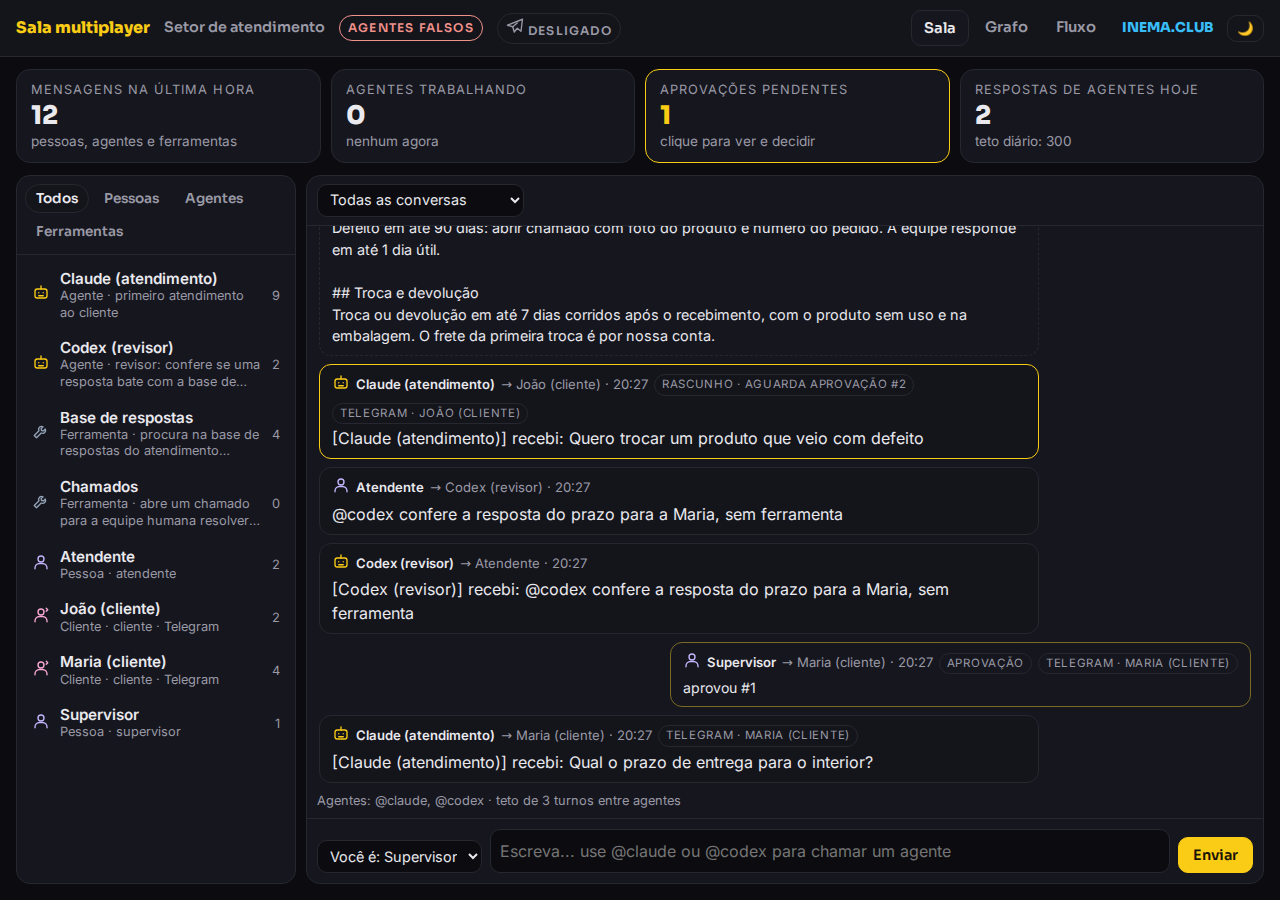
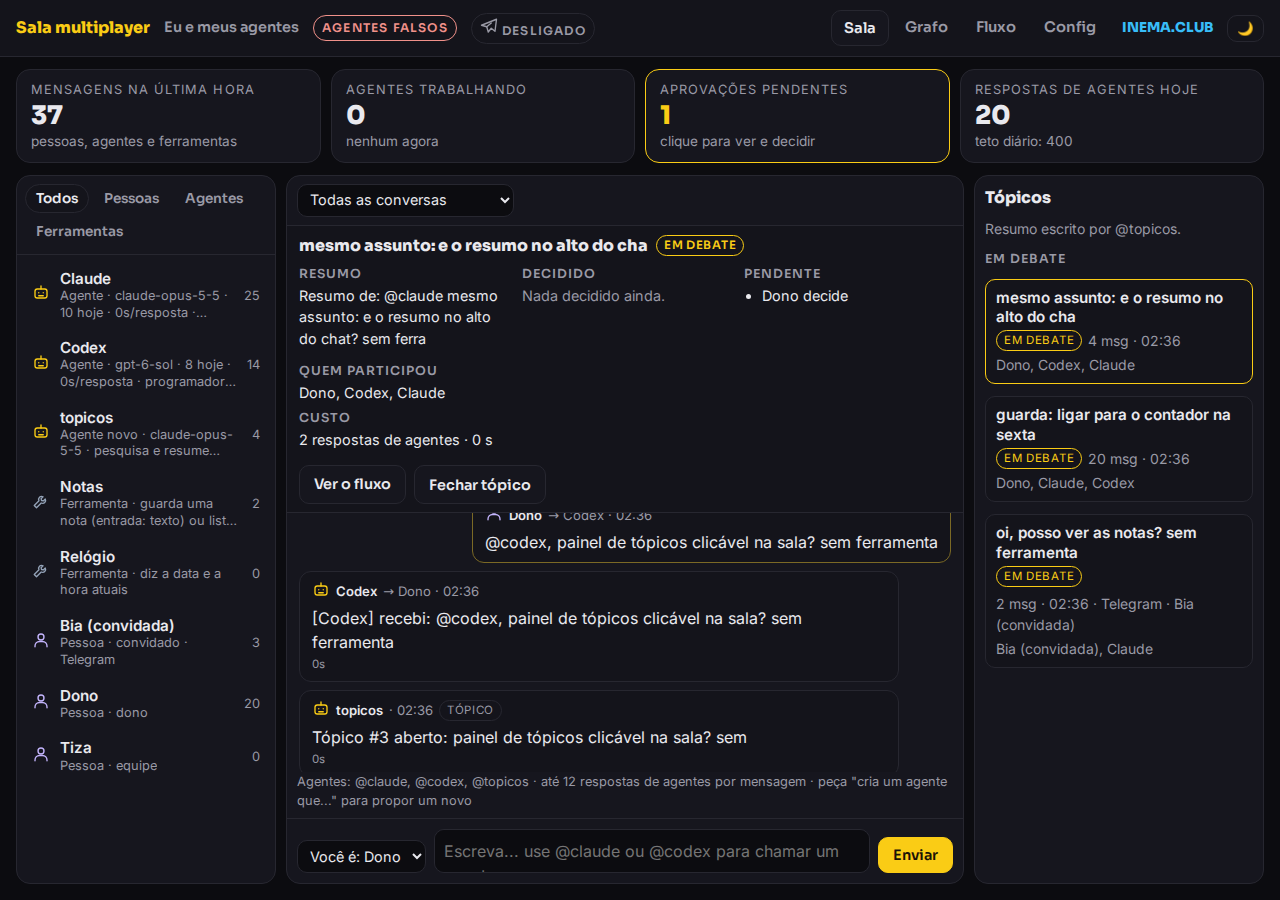
v0.7.0: tópicos — coluna à direita do chat (em debate no alto), resumo no alto ao clicar (decidido, pendente, quem, custo, ver o fluxo), abas no celular; @topicos resume e escolhe atualizar ou abrir, e sem ele a sala agrupa sozinha; READMEs PT/EN/ES em dia

diff --git a/public/sala.html b/public/sala.html
@@ -16,6 +16,10 @@
 </section>
 <section class="aprov" id="aprov"><h3>Esperando aprovação humana</h3><div id="aprov-lista"></div></section>
 <main class="sala">
+  <div class="abas-movel" role="group" aria-label="ver">
+    <button class="tab on" data-aba="conversa">Conversa</button>
+    <button class="tab" data-aba="topicos">Tópicos <span id="n-top"></span></button>
+  </div>
   <aside class="lado">
     <div class="tabs" id="tabs">
       <button class="tab on" data-t="todos">Todos</button>
@@ -30,6 +34,7 @@
       <select id="conversa" aria-label="conversa"></select>
       <span class="filtro" id="filtro"></span>
     </div>
+    <div class="resumo-top" id="resumo" hidden></div>
     <div class="msgs" id="msgs"></div>
     <div class="dica" id="dica"></div>
     <form class="comp" id="comp">
@@ -38,11 +43,14 @@
       <button class="btn pri" type="submit">Enviar</button>
     </form>
   </section>
+  <aside class="topicos" id="topicos" aria-label="tópicos"></aside>
 </main>
 <script type="module">
 import { S, iniciar, nav, icone, esc, hora, part, classe, nomeConversa, postar, ROTULO } from '/comum.js';
+import { rodadas, resolucao } from '/rodadas.js';
 
 let aba = 'todos', sel = new URLSearchParams(location.search).get('p'), conversa = 'todas';
+let selTop = Number(new URLSearchParams(location.search).get('t')) || null;
 const $ = (id) => document.getElementById(id);
 let eu = (() => { try { return localStorage.getItem('sala-eu'); } catch { return null; } })();
 
@@ -55,6 +63,8 @@ $('eu').onchange = (e) => { eu = e.target.value; try { localStorage.setItem('sal
 document.querySelectorAll('.tab').forEach((b) => b.onclick = () => { aba = b.dataset.t; document.querySelectorAll('.tab').forEach((x) => x.classList.toggle('on', x === b)); render(); });
 $('conversa').onchange = (e) => { conversa = e.target.value; render(); };
 $('k-aprov-box').onclick = () => $('aprov').classList.toggle('aberta');
+const verAba = (a) => { document.body.classList.toggle('aba-topicos', a === 'topicos'); document.querySelectorAll('.abas-movel .tab').forEach((b) => b.classList.toggle('on', b.dataset.aba === a)); };
+document.querySelectorAll('.abas-movel .tab').forEach((b) => b.onclick = () => verAba(b.dataset.aba));
 $('texto').addEventListener('keydown', (e) => { if (e.key === 'Enter' && !e.shiftKey) { e.preventDefault(); $('comp').requestSubmit(); } });
 $('comp').onsubmit = async (e) => {
   e.preventDefault();
@@ -162,10 +172,12 @@ function render() {
   // mensagens
   const box = $('msgs');
   const noFim = box.scrollHeight - box.scrollTop - box.clientHeight < 80;
-  const evs = e.eventos.filter((x) => (conversa === 'todas' || x.conversa === conversa) && (!sel || x.de === sel || x.para === sel)).slice(-250);
+  const top = selTop && e.topicos.find((t) => t.id === selTop);
+  const rodTop = top ? new Set(top.rodadas) : null;
+  const evs = e.eventos.filter((x) => (conversa === 'todas' || x.conversa === conversa) && (!sel || x.de === sel || x.para === sel) && (!rodTop || rodTop.has(x.rodada))).slice(-250);
   box.innerHTML = evs.map((x) => {
     const de = part(x.de), para = part(x.para), c = classe(de);
-    const selo = { ferramenta: 'usa ferramenta', resultado: 'resultado', rascunho: `rascunho · aguarda aprovação #${x.meta?.aprovacao ?? ''}`, proposta: `proposta de agente · aprovação #${x.meta?.aprovacao ?? ''}`, aprovacao: 'aprovação', sistema: 'aviso', pedido: `pedido de entrada · #${x.meta?.aprovacao ?? ''}` }[x.tipo];
+    const selo = { ferramenta: 'usa ferramenta', resultado: 'resultado', rascunho: `rascunho · aguarda aprovação #${x.meta?.aprovacao ?? ''}`, proposta: `proposta de agente · aprovação #${x.meta?.aprovacao ?? ''}`, aprovacao: 'aprovação', sistema: 'aviso', topico: 'tópico', pedido: `pedido de entrada · #${x.meta?.aprovacao ?? ''}` }[x.tipo];
     const eco = x.meta?.eco;
     return `<div class="m ${x.tipo} ${x.de === eu ? 'meu' : ''} ${eco ? 'eco' : ''}">
       <div class="c"><span class="t-${c}">${icone(c)}</span><b>${esc(de.nome)}</b>${x.para && x.para !== 'sala' ? ` → ${esc(para.nome)}` : ''} · ${hora(x.hora)}
@@ -173,6 +185,74 @@ function render() {
       <div class="x">${esc(x.texto)}</div>${x.meta?.ms && x.tipo !== 'rascunho' ? `<div class="tempo">${Math.round(x.meta.ms / 100) / 10}s</div>` : ''}</div>`;
   }).join('') || '<div class="pa">Sem mensagens ainda. Escreva abaixo ou mande algo para o bot no Telegram.</div>';
   if (noFim) box.scrollTop = box.scrollHeight;
+  topicos();
+}
+
+// ---------- Tópicos: lista à direita e resumo no alto do chat ----------
+const ESTADO_TXT = { 'em debate': 'em debate', decidido: 'decidido', parado: 'parado' };
+function estadoDe(t, rs) {
+  if (t.rodadas.some((id) => rs.get(String(id)) && resolucao(rs.get(String(id)), S.estado).pendentes.length)) return 'em debate';
+  if (t.estado === 'em debate' && Date.now() - Date.parse(t.atualizado) > 2 * 3600e3) return 'parado';
+  return t.estado;
+}
+function somar(t, rs) {
+  const out = { respostas: 0, ms: 0, ecos: 0, decidido: [], pendentes: [], gente: new Set(), msgs: 0 };
+  for (const id of t.rodadas) {
+    const r = rs.get(String(id));
+    if (!r) continue;
+    const x = resolucao(r, S.estado);
+    out.respostas += x.respostas; out.ms += x.ms; out.ecos += x.ecos;
+    out.decidido.push(...x.decidido); out.pendentes.push(...x.pendentes);
+    for (const ev of r.eventos) {
+      if (['pessoa', 'agente'].includes(part(ev.de).tipo) && ev.tipo !== 'topico') out.gente.add(ev.de);
+      if (ev.tipo === 'mensagem' || ev.tipo === 'resposta') out.msgs++;
+    }
+  }
+  return out;
+}
+function itemTopico(t, rs) {
+  const est = estadoDe(t, rs), so = somar(t, rs);
+  return `<button class="top ${selTop === t.id ? 'on' : ''}" data-top="${t.id}">
+    <span class="tt">${esc(t.titulo)}</span>
+    <span class="ts"><span class="tg ${est === 'em debate' ? 'destaque' : est === 'decidido' ? 'ok' : ''}">${ESTADO_TXT[est] || est}</span>
+      ${so.msgs} msg · ${hora(t.atualizado)}${t.conversa !== 'painel' ? ` · ${esc(nomeConversa(t.conversa))}` : ''}</span>
+    <span class="tq">${[...so.gente].map((id) => esc(part(id).nome)).join(', ')}</span>
+  </button>`;
+}
+function topicos() {
+  const e = S.estado, rs = new Map(rodadas(e.eventos).map((r) => [r.chave, r]));
+  const lista = (e.topicos || []).map((t) => ({ t, est: estadoDe(t, rs) }));
+  const ativos = lista.filter((x) => x.est === 'em debate'), resto = lista.filter((x) => x.est !== 'em debate');
+  $('n-top').textContent = ativos.length ? `(${ativos.length})` : '';
+  const quem = e.agente_topicos ? `Resumo escrito por @${esc(e.agente_topicos)}.` : 'A sala agrupa as mensagens; o resumo escrito aparece quando o agente @topicos estiver aprovado.';
+  $('topicos').innerHTML = `<h3>Tópicos</h3><p class="nota">${quem}</p>
+    ${ativos.length ? `<div class="grupo"><h4>Em debate</h4>${ativos.map((x) => itemTopico(x.t, rs)).join('')}</div>` : '<p class="nota">Nenhum tópico em debate agora.</p>'}
+    ${resto.length ? `<details class="grupo" ${resto.some((x) => x.t.id === selTop) ? 'open' : ''}><summary>Decididos e parados (${resto.length})</summary>${resto.map((x) => itemTopico(x.t, rs)).join('')}</details>` : ''}`;
+  $('topicos').querySelectorAll('[data-top]').forEach((b) => b.onclick = () => {
+    const id = Number(b.dataset.top);
+    selTop = selTop === id ? null : id;
+    verAba('conversa');
+    render();
+  });
+  // Cartão de resumo do tópico aberto.
+  const t = selTop && (e.topicos || []).find((x) => x.id === selTop);
+  const box = $('resumo');
+  box.hidden = !t;
+  if (!t) return;
+  const est = estadoDe(t, rs), so = somar(t, rs);
+  const lista2 = (itens, vazio) => itens.length ? `<ul>${itens.map((i) => `<li>${esc(i)}</li>`).join('')}</ul>` : `<p class="mut">${vazio}</p>`;
+  const resumo = t.resumo || (e.agente_topicos ? 'Agrupado pela sala (o @topicos não resumiu esta parte).' : 'Sem resumo escrito: aprove o agente @topicos para ter resumo, decisões e pendências escritas.');
+  box.innerHTML = `<details open><summary><b>${esc(t.titulo)}</b> <span class="tg ${est === 'em debate' ? 'destaque' : est === 'decidido' ? 'ok' : ''}">${ESTADO_TXT[est] || est}</span></summary>
+    <div class="rt-grade">
+      <div><h4>Resumo</h4><p>${esc(resumo)}</p></div>
+      <div><h4>Decidido</h4>${lista2([...t.decidido, ...so.decidido], 'Nada decidido ainda.')}</div>
+      <div><h4>Pendente</h4>${lista2([...t.pendente, ...so.pendentes], 'Nada esperando.')}</div>
+      <div><h4>Quem participou</h4><p>${[...so.gente].map((id) => esc(part(id).nome)).join(', ') || '—'}</p>
+        <h4>Custo</h4><p>${so.respostas} resposta${so.respostas === 1 ? '' : 's'} de agentes${so.ecos ? ` (${so.ecos} só confirmando)` : ''} · ${String(Math.round(so.ms / 100) / 10).replace('.', ',')} s</p></div>
+    </div>
+    <div class="acoes"><a class="btn" href="/fluxo?v=visual&rodadas=${t.rodadas.join(',')}">Ver o fluxo</a><button class="btn" type="button" id="fecha-top">Fechar tópico</button></div>
+  </details>`;
+  $('fecha-top').onclick = () => { selTop = null; render(); };
 }
 function alertaInline(box, msg) { const d = document.createElement('div'); d.className = 'q'; d.style.color = 'var(--bad)'; d.textContent = msg; box.append(d); }
 render();

diff --git a/public/estilo.css b/public/estilo.css
@@ -55,7 +55,7 @@ svg.ic{width:18px;height:18px;flex:none;stroke:currentColor;fill:none;stroke-wid
 .btn:disabled{opacity:.5;cursor:default}
 
 /* sala: esquerda participantes, direita chat */
-.sala{flex:1;display:grid;grid-template-columns:280px 1fr;gap:10px;padding:0 16px 16px;min-height:0}
+.sala{flex:1;display:grid;grid-template-columns:260px minmax(0,1fr) 290px;gap:10px;padding:0 16px 16px;min-height:0}
 .lado{background:var(--card);border:1px solid var(--line);border-radius:14px;display:flex;flex-direction:column;min-height:0}
 .tabs{display:flex;gap:4px;padding:8px;border-bottom:1px solid var(--line);flex-wrap:wrap}
 .tab{border:1px solid transparent;background:none;color:var(--mut);border-radius:999px;padding:5px 10px;cursor:pointer;font-size:.85rem}
@@ -220,4 +220,35 @@ body:has(.cfg){height:auto;overflow:auto}
 @media (max-width:860px){
   .rd-corpo{grid-template-columns:1fr}
   .visual{overflow:visible}
+}
+/* v0.7: tópicos à direita do chat, resumo no alto, abas no celular */
+.abas-movel{display:none}
+.topicos{background:var(--card);border:1px solid var(--line);border-radius:14px;padding:10px;overflow:auto;min-height:0;display:flex;flex-direction:column;gap:8px}
+.topicos h3{margin:0;font-size:1rem}
+.topicos .nota{margin:0;color:var(--mut);font-size:.875rem}
+.topicos .grupo{display:grid;gap:6px}
+.topicos h4,.topicos summary{font:600 .78rem Sora,sans-serif;text-transform:uppercase;letter-spacing:.08em;color:var(--mut);margin:4px 0 0;cursor:default}
+.topicos summary{cursor:pointer;padding:4px 0}
+.top{all:unset;box-sizing:border-box;display:grid;gap:3px;width:100%;padding:8px 10px;border:1px solid var(--line);border-radius:10px;background:var(--bg2);cursor:pointer;margin-top:6px}
+.top:hover{border-color:color-mix(in srgb,var(--amb) 40%,var(--line))}
+.top.on{border-color:var(--amb)}
+.top:focus-visible{outline:2px solid var(--amb);outline-offset:1px}
+.top .tt{font-weight:600;font-size:.95rem;line-height:1.3;color:var(--txt)}
+.top .ts{display:flex;gap:6px;align-items:center;flex-wrap:wrap;color:var(--mut);font-size:.875rem}
+.top .tq{color:var(--mut);font-size:.875rem;overflow:hidden;text-overflow:ellipsis;white-space:nowrap}
+.resumo-top{border-bottom:1px solid var(--line);padding:8px 12px;background:var(--bg2);max-height:45vh;overflow:auto}
+.resumo-top summary{cursor:pointer;display:flex;gap:8px;align-items:center;flex-wrap:wrap;font-family:Sora,Inter,sans-serif}
+.resumo-top .rt-grade{display:grid;grid-template-columns:repeat(auto-fit,minmax(200px,1fr));gap:8px 16px;margin-top:8px;font-size:.9rem}
+.resumo-top h4{font:600 .78rem Sora,sans-serif;text-transform:uppercase;letter-spacing:.08em;color:var(--mut);margin:0 0 3px}
+.resumo-top p{margin:0 0 6px;word-break:break-word}
+.resumo-top ul{margin:0 0 6px;padding-left:18px;display:grid;gap:2px}
+.resumo-top .acoes{display:flex;gap:8px;flex-wrap:wrap;margin-top:8px}
+.resumo-top a.btn{text-decoration:none}
+@media (max-width:1100px){.sala{grid-template-columns:220px minmax(0,1fr) 250px}}
+@media (max-width:860px){
+  .sala{grid-template-columns:1fr}
+  .abas-movel{display:flex;gap:6px}
+  .topicos{display:none;max-height:none}
+  body.aba-topicos .topicos{display:flex}
+  body.aba-topicos .chat,body.aba-topicos .lado{display:none}
 }

diff --git a/public/fluxo.html b/public/fluxo.html
@@ -94,6 +94,7 @@ function tudo() {
 const MARCA = {
   proposta: (e) => `proposta #${e.meta?.aprovacao ?? ''}`, rascunho: (e) => `rascunho #${e.meta?.aprovacao ?? ''}`,
   ferramenta: () => 'usa ferramenta', resultado: () => 'resultado', pedido: (e) => `pedido #${e.meta?.aprovacao ?? ''}`,
+  topico: (e) => `tópico #${e.meta?.topico ?? ''}`,
 };
 function marca(e) {
   if (e.tipo === 'sistema') return /^Teto/.test(e.texto) ? ['teto', 'ruim'] : /falhou/.test(e.texto) ? ['falhou', 'ruim'] : ['aviso', ''];

diff --git a/public/comum.js b/public/comum.js
@@ -79,6 +79,9 @@ export async function iniciar(aoMudar) {
   on('ativos', (d) => { S.estado.ativos = d; });
   on('config', (d) => { S.estado.config = d; S.estado.perfil.teto_turnos = d.teto_turnos; S.estado.perfil.teto_diario = d.teto_diario; });
   on('stats', (d) => { S.estado.stats = d; });
+  on('topico', (d) => {
+    S.estado.topicos = [d, ...(S.estado.topicos || []).filter((t) => t.id !== d.id)];
+  });
   return S.estado;
 }
 

diff --git a/README.es.md b/README.es.md
@@ -16,13 +16,14 @@ Tiene dos modos listos: **pessoa** (personal: tú y tus agentes) y **atendimento
 
 Guía completa (landing + paso a paso): **https://inematds.github.io/sala-multiplayer/guia/es/**
 
-## Las tres pantallas
+## Las pantallas
 
 | Pantalla | Qué muestra |
 |---|---|
-| **Sala** (`/`) | Arriba: mensajes de la última hora, agentes trabajando, aprobaciones pendientes y respuestas del día. A la izquierda: participantes (Todos, Pessoas, Agentes, Ferramentas); haz clic para filtrar. A la derecha: el chat, con selector de conversación. |
+| **Sala** (`/`) | Arriba: mensajes de la última hora, agentes trabajando, aprobaciones pendientes y respuestas del día. A la izquierda: participantes (Todos, Pessoas, Agentes, Ferramentas); haz clic para filtrar. En el medio: el chat, con selector de conversación. A la derecha: **Temas** (en debate arriba; decididos y parados plegados). Al hacer clic en un tema, el chat se filtra y arriba se abre el **resumen**: resumen, decidido, pendiente, quién participó, costo y "Ver el flujo". En el celular, Conversación y Temas pasan a ser pestañas. |
 | **Grafo** (`/grafo`) | Quién conversa con quién. La línea se engrosa con el volumen y una bolita corre por ella con cada mensaje. |
-| **Flujo** (`/fluxo`) | Todo lo que entra y sale, desplazándose en el orden en que ocurre. |
+| **Flujo** (`/fluxo`) | Botón **Texto \| Visual**. Texto: todo lo que entra y sale, en el orden en que ocurre. Visual: una ronda por mensaje de una persona, en diagrama de secuencia (una columna por participante, una flecha por mensaje, marcas de propuesta, tope, falla y "solo confirma"), con la franja de resolución al lado: pedido, propuestas, decidido, pendiente, topes y costo. |
+| **Config** (`/config`) | Límites de la sala, de cada agente y de los invitados; activar y desactivar invitados. Solo el dueño, con la contraseña. |
 
 ![Sala](docs/sala-1280.png)
 ![Grafo](docs/grafo-1280.png)
@@ -32,7 +33,7 @@ Guía completa (landing + paso a paso): **https://inematds.github.io/sala-multip
 ```bash
 git clone https://github.com/inematds/sala-multiplayer && cd sala-multiplayer
 npm run demo          # demostración con agentes falsos: http://127.0.0.1:4601
-npm test              # 11 pruebas, sin llamar a agentes ni a Telegram
+npm test              # 45 pruebas, sin llamar a agentes ni a Telegram
 ```
 
 Con agentes de verdad:
@@ -49,16 +50,18 @@ npm run atendimento   # área de atención      → http://127.0.0.1:4600
 3. Copia `.env.exemplo` a `.env` y completa `SALA_TELEGRAM_TOKEN` y tu id (`SALA_DONO_TELEGRAM_ID`; averígualo con @userinfobot).
 4. Cada persona del equipo envía `/start` al bot una vez (un bot de Telegram no puede iniciar la conversación; sin eso no puede avisar de las aprobaciones).
 5. Quien no sabe su id manda `ping` al bot: recibe el id de vuelta, y el dueño recibe un aviso con el comando listo (`/entrar <id> <persona>`) para meterla en la sala sin tocar el `.env`.
-6. Ejecuta `npm run pessoa` o `npm run atendimento`. El sello de Telegram en la parte superior del panel queda "ligado" (activo).
+6. **Invitado sin id:** la persona envía `/entrar` al bot (en conversación privada). El dueño recibe "Pedido 7: Ana (@ana) quiere entrar. /aceitar 7 o /recusar 7", y el mismo pedido aparece en las aprobaciones pendientes del panel (aceptar pide la contraseña del dueño). El id queda guardado solo por dentro. El invitado conversa y llama a los agentes, pero no aprueba nada ni cambia la configuración, y tiene su propio tope de respuestas por día (30). Para desactivarlo: `/remover ana` en Telegram o el botón en la pantalla Config; el propio invitado sale con `/sair`. Para volver, envía `/entrar` de nuevo y el dueño aprueba otra vez.
+7. Ejecuta `npm run pessoa` o `npm run atendimento`. El sello de Telegram en la parte superior del panel queda "ligado" (activo).
 
 Es **un solo bot**: los agentes responden por él, con su nombre al frente ("Claude: ..."). Es necesario porque un bot de Telegram no ve los mensajes de otro bot.
 
 ## Cómo funciona
 
-- **Llamar a un agente:** escribe `@claude` o `@codex`. Sin mención, vale la ruta del perfil: en el modo pessoa va a Claude; en atendimento, el mensaje de un cliente va a Claude y la conversación del equipo queda solo entre personas.
+- **Llamar a un agente:** escribe `@claude` o `@codex`. Entre agentes solo vale el `@id` al comienzo de la frase ("@codex, ¿revisas esto?"); nombrar a un agente en medio del texto ("falta aprobar a @critico") no llama a nadie. Una respuesta que solo confirma ("de acuerdo, espero al dueño") no llama a nadie y aparece con el sello "solo confirma". Un agente solo vuelve a llamar a quien le habló si hace una pregunta. Sin mención, vale la ruta del perfil: en el modo pessoa va a Claude; en atendimento, el mensaje de un cliente va a Claude y la conversación del equipo queda solo entre personas.
 - **Herramientas:** el agente la pide con una línea `FERRAMENTA: nome | entrada`; la sala la ejecuta y devuelve el resultado. Ejemplos: `base` (base de respuestas en `perfis/base-atendimento.md`), `chamado`, `notas`, `hora`.
 - **Aprobación:** en atendimento, la respuesta para el cliente queda como borrador. Solo sale cuando alguien del equipo la aprueba en el panel (puede editarla antes) o envía `/aprovar N` por Telegram.
-- **Topes:** hasta 10 turnos seguidos entre agentes (6 en atendimento), un límite de respuestas por día (400 y 300) y, si quieres, un tope por agente. Evitan bucles que gasten la suscripción. Cámbialos en `perfis/<perfil>.json` (`teto_turnos`, `teto_diario`).
+- **Topes:** hasta 10 turnos seguidos entre agentes (6 en atendimento), hasta 12 respuestas de agentes por mensaje sumando todas las ramas (8 en atendimento), un límite de respuestas por día (400 y 300), un tope por invitado y, si quieres, un tope por agente. Evitan bucles que gasten la suscripción. El aviso de tope sale una vez por mensaje. Cámbialos en la pantalla Config.
+- **Ronda:** cada mensaje de una persona abre una ronda; todo lo que provoca guarda su id (`rodada`) y el evento que lo disparó (`pai`).
 - **Modelo, esfuerzo y largo de la respuesta:** cada agente tiene `nivel` (super, topo, executor, menor; el modelo de cada nivel sale de `~/.config/inema/modelos.env`), `esforco` (vacío = el del nivel, o low, medium, high, xhigh) y `linhas_max`. Defínelos en el perfil o, para un agente nuevo, en la misma tarjeta de aprobación.
 - **Seguridad:** el panel solo abre en esta máquina (`127.0.0.1`). El mensaje de otra persona se trata como dato, nunca como orden. En el modo pessoa, el bot ignora a quien no es el dueño. Los agentes corren sin las herramientas propias del CLI, sin MCP y en una carpeta vacía.
 
@@ -68,9 +71,13 @@ Pídelo en la conversación, por ejemplo: "crea un agente que revise mis textos"
 
 Los agentes aprobados quedan en `data/<perfil>/agentes.json` (fuera de git). Para quitar uno, borra su entrada y reinicia la sala. En el panel, cada agente muestra cuántas respuestas dio hoy y su tiempo promedio por respuesta.
 
+## Temas
+
+Después de cada mensaje, la sala coloca la conversación en un tema. Sin el agente organizador, junta los mensajes seguidos de la misma conversación (hasta 15 minutos de intervalo) en un tema sin resumen escrito; las propuestas, aprobaciones y el costo aparecen igual, porque la sala ya los registra. Con el agente **@topicos** aprobado (pide "crea un agente que organice la conversación en temas"; el id tiene que ser `topicos`, o cambia `agente_topicos` en el perfil), él escribe título, resumen, decidido y pendiente, y elige entre actualizar un tema abierto o abrir otro. Cada resumen cuenta como una respuesta en el tope diario. Los temas quedan en la base de la sala (`data/<perfil>/sala.db`).
+
 ## Configuración: solo el dueño la cambia
 
-Los límites (turnos entre agentes, respuestas por día, largo de la respuesta) y el modelo, el esfuerzo y el tope de cada agente están en la pantalla **Config** (`/config`). Cambiarlos exige la **contraseña del dueño** (`SALA_DONO_SENHA` en el `.env`). En Telegram, el dueño usa `/config` para verlos y `/config teto_turnos 20` (o `/config agente.claude.nivel super`) para cambiarlos, reconocido por su id. Quien no es el dueño lo pide en el chat ("sube el tope a 20"): el agente arma una propuesta y solo el dueño la aprueba. Los cambios valen al instante y quedan en `data/<perfil>/config.json`, por encima del perfil. El dueño de cada perfil es el campo `"dono"` del JSON.
+Los límites (turnos entre agentes, respuestas por mensaje, respuestas por día, largo de la respuesta, reglas del invitado: tope diario, si necesita aprobación nueva al volver, si la invitación vence) y el modelo, el esfuerzo y el tope de cada agente están en la pantalla **Config** (`/config`). Cambiarlos exige la **contraseña del dueño** (`SALA_DONO_SENHA` en el `.env`). En Telegram, el dueño usa `/config` para verlos y `/config teto_turnos 20` (o `/config agente.claude.nivel super`) para cambiarlos, reconocido por su id. Quien no es el dueño lo pide en el chat ("sube el tope a 20"): el agente arma una propuesta y solo el dueño la aprueba. Los cambios valen al instante y quedan en `data/<perfil>/config.json`, por encima del perfil. El dueño de cada perfil es el campo `"dono"` del JSON.
 
 ## Perfiles
 
@@ -78,7 +85,7 @@ Los límites (turnos entre agentes, respuestas por día, largo de la respuesta) 
 
 ## Próximos pasos
 
-Mira el [ROADMAP.md](ROADMAP.md) (en portugués). En la v0.2 entran los **consejos** de [7conselho](https://github.com/inematds/7conselho) como participantes de la sala.
+Mira el [ROADMAP.md](ROADMAP.md) (en portugués): herramienta nueva a pedido (con dos aprobaciones) y los **consejos** de [7conselho](https://github.com/inematds/7conselho) como participantes de la sala.
 
 ---
 

diff --git a/README.en.md b/README.en.md
@@ -16,13 +16,14 @@ It has two ready-made modes: **pessoa** (personal: you and your agents) and **at
 
 Full guide (landing + step by step): **https://inematds.github.io/sala-multiplayer/guia/en/**
 
-## The three screens
+## The screens
 
 | Screen | What it shows |
 |---|---|
-| **Room** (`/`) | On top: messages from the last hour, agents working, pending approvals and replies today. On the left: participants (All, People, Agents, Tools); click to filter. On the right: the chat, with a conversation selector. |
+| **Room** (`/`) | On top: messages from the last hour, agents working, pending approvals and replies today. On the left: participants (All, People, Agents, Tools); click to filter. In the middle: the chat, with a conversation selector. On the right: **Topics** (under debate on top; decided and stalled ones folded). Clicking a topic filters the chat and opens the **summary** on top: summary, decided, pending, who took part, cost and "See the flow". On a phone, Conversation and Topics become tabs. |
 | **Graph** (`/grafo`) | Who talks to whom. The line gets thicker with volume and a dot runs along it with each message. |
-| **Flow** (`/fluxo`) | Everything that comes in and goes out, scrolling in the order it happens. |
+| **Flow** (`/fluxo`) | A **Text \| Visual** switch. Text: everything that comes in and goes out, in the order it happens. Visual: one round per message from a person, as a sequence diagram (one column per participant, one arrow per message, marks for proposal, limit, failure and "just confirms"), with the resolution strip beside it: request, proposals, decided, pending, limits hit and cost. |
+| **Config** (`/config`) | Limits for the room, each agent and guests; switch guests on and off. Owner only, with the password. |
 
 ![Room](docs/sala-1280.png)
 ![Graph](docs/grafo-1280.png)
@@ -32,7 +33,7 @@ Full guide (landing + step by step): **https://inematds.github.io/sala-multiplay
 ```bash
 git clone https://github.com/inematds/sala-multiplayer && cd sala-multiplayer
 npm run demo          # demo with fake agents: http://127.0.0.1:4601
-npm test              # 11 tests, no agents or Telegram called
+npm test              # 45 tests, no agents or Telegram called
 ```
 
 With real agents:
@@ -49,16 +50,18 @@ npm run atendimento   # support desk          → http://127.0.0.1:4600
 3. Copy `.env.exemplo` to `.env` and fill in `SALA_TELEGRAM_TOKEN` and your id (`SALA_DONO_TELEGRAM_ID`; find it with @userinfobot).
 4. Each team member sends `/start` to the bot once (a Telegram bot cannot start a conversation; without it, it cannot notify people about approvals).
 5. Anyone who does not know their id sends `ping` to the bot: they get the id back, and the owner gets a notice with the ready command (`/entrar <id> <person>`) to add them to the room without touching `.env`.
-6. Run `npm run pessoa` or `npm run atendimento`. The Telegram badge at the top of the dashboard shows "on".
+6. **Guest without an id:** the person sends `/entrar` to the bot (in a private chat). The owner gets "Request 7: Ana (@ana) wants to join. /aceitar 7 or /recusar 7", and the same request shows up under pending approvals in the panel (accepting asks for the owner password). The id stays inside the room. A guest chats and calls the agents but approves nothing and changes no settings, and has a daily reply cap of their own (30). To switch a guest off: `/remover ana` on Telegram or the button on the Config page; the guest can leave with `/sair`. To come back, they send `/entrar` again and the owner approves again.
+7. Run `npm run pessoa` or `npm run atendimento`. The Telegram badge at the top of the dashboard shows "on".
 
 It is **a single bot**: the agents reply through it, with their name in front ("Claude: ..."). This is needed because a Telegram bot cannot see messages from another bot.
 
 ## How it works
 
-- **Calling an agent:** write `@claude` or `@codex`. Without a mention, the profile's route applies: in pessoa mode it goes to Claude; in atendimento, a customer message goes to Claude and team conversation stays between people.
+- **Calling an agent:** write `@claude` or `@codex`. Between agents only an `@id` at the start of a sentence counts ("@codex, can you check this?"); naming an agent mid-sentence ("the owner still has to approve @critico") calls no one. A reply that only confirms ("agreed, waiting for the owner") calls no one and gets a "just confirms" tag. An agent only calls back the one who spoke to it when it asks a question. Without a mention, the profile's route applies: in pessoa mode it goes to Claude; in atendimento, a customer message goes to Claude and team conversation stays between people.
 - **Tools:** the agent asks with one line `FERRAMENTA: nome | entrada`; the room runs it and returns the result. Examples: `base` (answer base in `perfis/base-atendimento.md`), `chamado` (ticket), `notas` (notes), `hora` (time).
 - **Approval:** in atendimento, the reply to the customer becomes a draft. It only goes out after someone on the team approves it in the dashboard (you can edit it first) or sends `/aprovar N` on Telegram.
-- **Limits:** up to 10 turns in a row between agents (6 in atendimento), a daily reply limit (400 and 300) and, optionally, a cap per agent. They prevent loops that burn through your subscription. Change them in `perfis/<perfil>.json` (`teto_turnos`, `teto_diario`).
+- **Limits:** up to 10 turns in a row between agents (6 in atendimento), up to 12 agent replies per message adding up every branch (8 in atendimento), a daily reply limit (400 and 300), a cap per guest and, optionally, a cap per agent. They prevent loops that burn through your subscription. The limit notice shows once per message. Change them on the Config page.
+- **Round:** each message from a person opens a round; everything it triggers keeps its id (`rodada`) and the event that triggered it (`pai`).
 - **Model, effort and reply length:** each agent has `nivel` (super, topo, executor, menor; each level's model comes from `~/.config/inema/modelos.env`), `esforco` (empty = the level's own, or low, medium, high, xhigh) and `linhas_max`. Set them in the profile or, for a new agent, right on the approval card.
 - **Security:** the dashboard only opens on this machine (`127.0.0.1`). A message from another person is treated as data, never as an order. In pessoa mode, the bot ignores anyone who is not the owner. The agents run without the CLI's own tools, without MCP and in an empty folder.
 
@@ -68,9 +71,13 @@ Ask in the conversation, for example: "create an agent that proofreads my texts"
 
 Approved agents are kept in `data/<perfil>/agentes.json` (outside git). To remove one, delete its entry and restart the room. In the panel, each agent shows how many replies it gave today and its average time per reply.
 
+## Topics
+
+After each message, the room puts the conversation into a topic. Without the organizer agent, it joins consecutive messages of the same conversation (up to 15 minutes apart) into a topic with no written summary; proposals, approvals and cost still show, because the room already records them. With the **@topicos** agent approved (ask "create an agent that organizes the conversation into topics"; its id must be `topicos`, or change `agente_topicos` in the profile), it writes the title, summary, decided and pending items, and picks between updating an open topic or opening a new one. Each summary counts as one reply against the daily limit. Topics live in the room database (`data/<perfil>/sala.db`).
+
 ## Settings: only the owner changes them
 
-The limits (turns between agents, replies per day, reply length) and each agent's model, effort and cap live on the **Config** page (`/config`). Changing them needs the **owner password** (`SALA_DONO_SENHA` in `.env`). On Telegram, the owner uses `/config` to see them and `/config teto_turnos 20` (or `/config agente.claude.nivel super`) to change them, recognized by their Telegram id. Anyone else asks in the chat ("raise the cap to 20"): the agent builds a proposal and only the owner approves it. Changes apply at once and are stored in `data/<perfil>/config.json`, on top of the profile. Each profile's owner is the `"dono"` field in its JSON.
+The limits (turns between agents, replies per message, replies per day, reply length, guest rules: daily cap, whether a returning guest needs a new approval, whether the invite expires) and each agent's model, effort and cap live on the **Config** page (`/config`). Changing them needs the **owner password** (`SALA_DONO_SENHA` in `.env`). On Telegram, the owner uses `/config` to see them and `/config teto_turnos 20` (or `/config agente.claude.nivel super`) to change them, recognized by their Telegram id. Anyone else asks in the chat ("raise the cap to 20"): the agent builds a proposal and only the owner approves it. Changes apply at once and are stored in `data/<perfil>/config.json`, on top of the profile. Each profile's owner is the `"dono"` field in its JSON.
 
 ## Profiles
 
@@ -78,7 +85,7 @@ The limits (turns between agents, replies per day, reply length) and each agent'
 
 ## Next steps
 
-See [ROADMAP.md](ROADMAP.md) (in Portuguese). In v0.2 the **councils** from [7conselho](https://github.com/inematds/7conselho) join as participants in the room.
+See [ROADMAP.md](ROADMAP.md) (in Portuguese): a new tool on request (with two approvals) and the **councils** from [7conselho](https://github.com/inematds/7conselho) as participants in the room.
 
 ---
 

diff --git a/README.md b/README.md
@@ -20,7 +20,7 @@ Guia completo (landing + passo a passo): **https://inematds.github.io/sala-multi
 
 | Tela | O que mostra |
 |---|---|
-| **Sala** (`/`) | No topo: mensagens da última hora, agentes trabalhando, aprovações pendentes e respostas do dia. À esquerda: participantes (Todos, Pessoas, Agentes, Ferramentas); clique para filtrar. À direita: o chat, com seletor de conversa. |
+| **Sala** (`/`) | No topo: mensagens da última hora, agentes trabalhando, aprovações pendentes e respostas do dia. À esquerda: participantes (Todos, Pessoas, Agentes, Ferramentas); clique para filtrar. No meio: o chat, com seletor de conversa. À direita: **Tópicos** (em debate no alto; decididos e parados recolhidos). Clicar num tópico filtra o chat e abre o **resumo** no alto: resumo, decidido, pendente, quem participou, custo e "Ver o fluxo". No celular, Conversa e Tópicos viram abas. |
 | **Grafo** (`/grafo`) | Quem conversa com quem. A linha engrossa com o volume e uma bolinha corre por ela a cada mensagem. |
 | **Fluxo** (`/fluxo`) | Botão **Texto \| Visual**. Texto: tudo o que entra e sai, na ordem em que acontece. Visual: uma rodada por mensagem de pessoa, em diagrama de sequência (uma coluna por participante, uma seta por mensagem, marcas de proposta, teto, falha e "só confirma"), com a faixa de resolução ao lado: pedido, propostas, decidido, pendente, travas e custo. |
 | **Config** (`/config`) | Limites da sala, de cada agente e dos convidados; ligar e desligar convidado. Só o dono, com a senha. |
@@ -33,7 +33,7 @@ Guia completo (landing + passo a passo): **https://inematds.github.io/sala-multi
 ```bash
 git clone https://github.com/inematds/sala-multiplayer && cd sala-multiplayer
 npm run demo          # demonstração com agentes falsos: http://127.0.0.1:4601
-npm test              # 41 testes, sem chamar agentes nem Telegram
+npm test              # 45 testes, sem chamar agentes nem Telegram
 ```
 
 Com agentes de verdade:
@@ -71,6 +71,10 @@ Peça na conversa, por exemplo: "cria um agente que revise meus textos". O Claud
 
 Os agentes aprovados ficam em `data/<perfil>/agentes.json` (fora do git). Para tirar um, apague a entrada e reinicie a sala. No painel, cada agente mostra quantas respostas deu hoje e o tempo médio por resposta.
 
+## Tópicos
+
+Depois de cada mensagem, a sala coloca a conversa num tópico. Sem o agente organizador, ela junta as mensagens seguidas da mesma conversa (até 15 minutos de intervalo) num tópico sem resumo escrito; propostas, aprovações e custo aparecem mesmo assim, porque a sala já registra isso. Com o agente **@topicos** aprovado (peça "cria um agente que organize a conversa em tópicos"; o id precisa ser `topicos`, ou mude `agente_topicos` no perfil), ele escreve título, resumo, decidido e pendente, e escolhe entre atualizar um tópico aberto ou abrir outro. Cada resumo conta como uma resposta no teto diário. Os tópicos ficam no banco da sala (`data/<perfil>/sala.db`).
+
 ## Configuração: só o dono muda
 
 Os limites (turnos entre agentes, respostas por mensagem, respostas por dia, tamanho da resposta, regras do convidado: teto por dia, se precisa de aprovação nova ao voltar, se o convite vence) e o modelo, o esforço e o teto de cada agente ficam na tela **Config** (`/config`). Mudar exige a **senha do dono** (`SALA_DONO_SENHA` no `.env`). No Telegram, o dono usa `/config` para ver e `/config teto_turnos 20` (ou `/config agente.claude.nivel super`) para mudar, reconhecido pelo id dele. Quem não é o dono pede no chat ("aumenta o teto para 20"): o agente monta uma proposta e só o dono aprova. As mudanças valem na hora e ficam em `data/<perfil>/config.json`, por cima do perfil. O dono de cada perfil é o campo `"dono"` do JSON.
@@ -81,7 +85,7 @@ Os limites (turnos entre agentes, respostas por mensagem, respostas por dia, tam
 
 ## Próximos passos
 
-Veja o [ROADMAP.md](ROADMAP.md). Na v0.2 entram os **conselhos** do [7conselho](https://github.com/inematds/7conselho) como participantes da sala.
+Veja o [ROADMAP.md](ROADMAP.md): ferramenta nova por pedido (com duas aprovações) e os **conselhos** do [7conselho](https://github.com/inematds/7conselho) como participantes da sala.
 
 ---
 

diff --git a/ROADMAP.md b/ROADMAP.md
@@ -24,7 +24,7 @@
 ## v0.6 — Fluxo Texto | Visual — feito (16/10/2026)
 - Botão no Fluxo: diagrama de sequência por rodada (colunas por participante, setas, marcas de proposta, aprovação, pendente, teto e eco) e faixa de resolução (pedido, propostas, decidido, pendente, custo).
 
-## v0.7 — Tópicos
+## v0.7 — Tópicos — feito (16/10/2026)
 - Coluna de tópicos à direita do chat e cartão de resumo no alto; o agente @topicos escreve o resumo quando aprovado, e até lá a sala monta a parte estruturada.
 
 ## v0.3 (antigo, ainda pendente)
